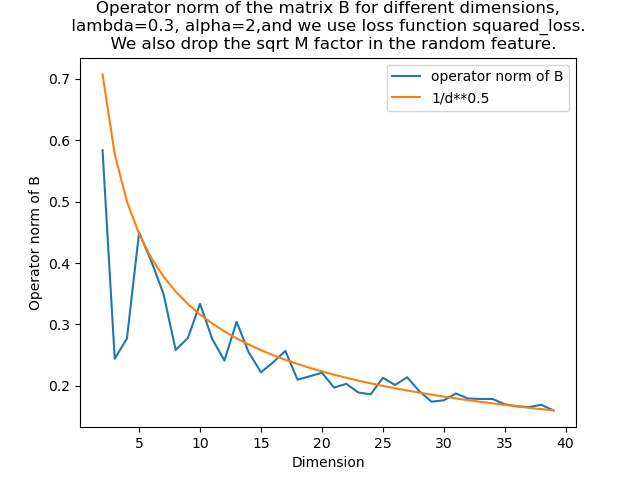
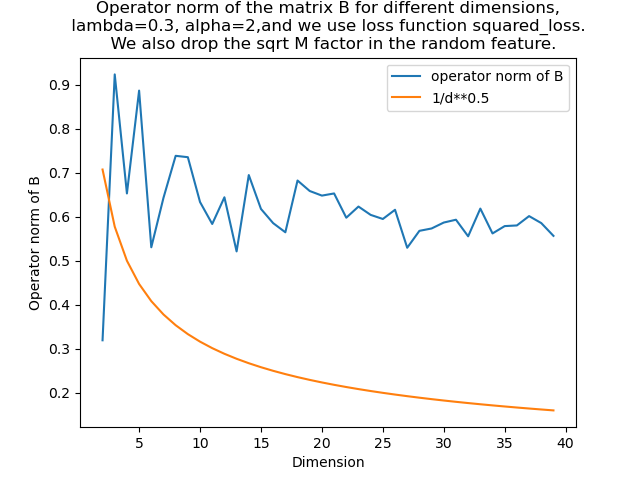
Signal_and_Scaling

diff --git a/RandomFeatureTest.py b/RandomFeatureTest.py
@@ -54,17 +54,20 @@ def smooth_l1_loss_grad(y_true, y_pred):
 if __name__ == "__main__":
     # Parameters
     lambda_reg = 0.3  # Regularization parameter
-    alpha = 2        # Ratio parameter
+    alpha = 1        # Ratio parameter
     k = 2              # Degree of Hermite polynomials
-    d = 2              # Dimension of input features
+    d = 20              # Dimension of input features
+    signal = True
+
 
     # Generate data
-    X, y = generate_data(d, k, alpha)
+    X, y = generate_data(d, k, alpha, signal=signal)
     # For logistic regression, y should be in {0, 1}
     y_classification = (y > 0).astype(np.float64)*2-1  # Convert to binary labels
 
     # Generate random weights W
     M =  int(alpha * (d ** k))             # Number of random features
+    scaling_factor = 1/np.sqrt(M)
     W = generate_random_weights(M, d)
 
     # 检查 W 的形状和内容
@@ -72,22 +75,31 @@ if __name__ == "__main__":
     print("W:", W)
     # # Choose loss function and its gradient
     # # # For regression
-    # loss_function = squared_loss
-    # loss_function_grad = squared_loss_grad
-    # y = y  # Use original y
+    loss_function = squared_loss
+    loss_function_grad = squared_loss_grad
+    y = y  # Use original y
     
     # For logistic regression (classification)
     # # Uncomment the following lines to use logistic loss
-    loss_function = logistic_loss
-    loss_function_grad = logistic_loss_grad
-    y = y_classification  # Use binary labels
+    # loss_function = logistic_loss
+    # loss_function_grad = logistic_loss_grad
+    # y = y_classification  # Use binary labels
 
     # Perform empirical risk minimization
-    ba_opt, W = empirical_risk_minimization(X, y, W, lambda_reg, loss_function, loss_function_grad)
+    ba_opt, W = empirical_risk_minimization(X, y, W, lambda_reg, loss_function, loss_function_grad, scaling_factor=scaling_factor)
     
     # Output the result
     # print("Optimized coefficients ba:")
     print("The infinity norm, 1 norm and 2 norm of ba_opt are", np.linalg.norm(ba_opt, np.inf), np.linalg.norm(ba_opt, 1), np.linalg.norm(ba_opt, 2))
+    B = np.sum([ba_opt[j] * np.outer(W[j], W[j]) for j in range(M)], axis=0)
+    # Draw heatmap of B
+    fig, ax = plt.subplots()
+    im = ax.imshow(B)
+    ax.set_xlabel("Dimension")
+    ax.set_ylabel("Dimension")
+    ax.set_title(f"Heatmap of matrix B. Paramters are lambda={lambda_reg}, alpha={alpha},\n n=M=alpha*d**{k}, and we use loss function {loss_function.__name__}. Signal is {signal}. Scaling factor is {scaling_factor}.")
+    fig.colorbar(im)
+    plt.show()
 
 
     repeat = 40
@@ -95,19 +107,28 @@ if __name__ == "__main__":
     ba_1_norm = dict()
     ba_2_norm = dict()
     B_op_norm = dict()
+    B_frobe_norm = dict()
+    B_cross_norm = dict()
     for d in range(2,repeat):
-        X, y = generate_data(d, k, alpha)
+        signal = True
+        X, y = generate_data(d, k, alpha, signal=signal)
         M =  int(alpha * (d ** k))             # Number of random features
+        scaling_factor = 1/np.sqrt(M)   
         W = generate_random_weights(M, d)
         y_classification = 2*(y > 0).astype(np.float64)-1
         y = y_classification
-        ba_hat, W = empirical_risk_minimization(X, y, W, lambda_reg, loss_function, loss_function_grad)
+        ba_hat, W = empirical_risk_minimization(X, y, W, lambda_reg, loss_function, loss_function_grad, scaling_factor=scaling_factor)
         ba_inf_norm[d] = np.linalg.norm(ba_hat, np.inf)
         ba_1_norm[d] = np.linalg.norm(ba_hat, 1)
         ba_2_norm[d] = np.linalg.norm(ba_hat, 2)
         # Calculate the matrix B. Its definition is that, for each i, B = \sum_{j=1}^M ba_hat[j] * row_j(W) * row_j(W)^T
         B = np.sum([ba_hat[j] * np.outer(W[j], W[j]) for j in range(M)], axis=0)
+        #l2 norm of the first row of B, but without the first element
+        B_cross_norm[d] = np.linalg.norm(B[0, 1:])
+        # Ignore the first row and the first column of B
+        B = B[1:, 1:]
         B_op_norm[d] = np.linalg.norm(B, 2)
+        B_frobe_norm[d] = np.linalg.norm(B)
         
         
     # For each d and j, plot the norms of ba_hat
@@ -121,11 +142,29 @@ if __name__ == "__main__":
     ax.legend()
     ax.set_xlabel("Dimension")
     ax.set_ylabel("Norm")
-    ax.set_title(f"Norms of the ERM solution hat a for different dimensions,\n lambda={lambda_reg}, alpha={alpha},and we use loss function {loss_function.__name__}. \n  We also drop the sqrt M factor in the random feature.")
+    ax.set_title(f"Norms of the ERM solution hat a for different dimensions,\n lambda={lambda_reg}, alpha={alpha},and we use loss function {loss_function.__name__}. \n  Signal is {signal}. Scaling factor is {scaling_factor}.")
 
     plt.show()
     # Save the plot
-    fig.savefig(f"figures/Nov2/randomFeature_lambda{lambda_reg}_alpha{alpha}_loss{loss_function.__name__}_repeat{repeat}.png")
+    fig.savefig(f"figures/Nov8/SignalrandomFeature_lambda{lambda_reg}_alpha{alpha}_loss{loss_function.__name__}_repeat{repeat}_signal{signal}_scaling{scaling_factor}.png")
+
+    # For each d and j, plot the norms of ba_hat
+    
+    fig, ax = plt.subplots()
+    ax.plot(list(ba_inf_norm.keys()), list(ba_inf_norm.values()), label='infinity norm')
+    # ax.plot(list(ba_1_norm.keys()), list(ba_1_norm.values()), label='1 norm')
+    ax.plot(list(ba_2_norm.keys()), list(ba_2_norm.values()), label='2 norm')
+    # Plot 1/d**0.5 for comparison
+    ax.plot(np.arange(2, repeat), 0.5/(np.arange(2, repeat)**0.5), label='1/d**0.5')
+    ax.legend()
+    ax.set_xlabel("Dimension")
+    ax.set_ylabel("Norm")
+    ax.set_title(f"Norms of the ERM solution hat a for different dimensions,\n lambda={lambda_reg}, alpha={alpha},and we use loss function {loss_function.__name__}. \n  Signal is {signal}. Scaling factor is {scaling_factor}.")
+
+    plt.show()
+    # Save the plot
+    fig.savefig(f"figures/Nov8/ZoomSignalrandomFeature_lambda{lambda_reg}_alpha{alpha}_loss{loss_function.__name__}_repeat{repeat}_signal{signal}_scaling{scaling_factor}.png")
+
     # For each d, plot the operator norm of B
     fig, ax = plt.subplots()
     ax.plot(list(B_op_norm.keys()), list(B_op_norm.values()), label='operator norm of B')
@@ -135,8 +174,33 @@ if __name__ == "__main__":
     ax.set_xlabel("Dimension")
     ax.set_ylabel("Operator norm of B")
 
-    ax.set_title(f"Operator norm of the matrix B for different dimensions,\n lambda={lambda_reg}, alpha={alpha},and we use loss function {loss_function.__name__}. \n  We also drop the sqrt M factor in the random feature.")
+    ax.set_title(f"Operator norm of the matrix B for different dimensions,\n lambda={lambda_reg}, alpha={alpha},and we use loss function {loss_function.__name__}. \n  Signal is {signal}. Scaling factor is {scaling_factor}.")
     plt.show()
 
     # Save the plot
-    fig.savefig(f"figures/Nov2/randomFeature_lambda{lambda_reg}_alpha{alpha}_loss{loss_function.__name__}_repeat{repeat}_B.png")
+    fig.savefig(f"figures/Nov8/randomFeature_lambda{lambda_reg}_alpha{alpha}_loss{loss_function.__name__}_repeat{repeat}_B_Signal{signal}_scaling{scaling_factor}.png")
+
+    # For each d, plot the Frobenius norm of B
+    fig, ax = plt.subplots()
+    ax.plot(list(B_frobe_norm.keys()), list(B_frobe_norm.values()), label='Frobenius norm of B')
+    # Plot 1/d for comparison
+    ax.plot(np.arange(2, repeat), 1/(np.arange(2, repeat))**0.5, label='1/d**0.5')
+    ax.legend()
+    ax.set_xlabel("Dimension")
+    ax.set_ylabel("Frobenius norm of B")
+    ax.set_title(f"Frobenius norm of the matrix B for different dimensions,\n lambda={lambda_reg}, alpha={alpha},and we use loss function {loss_function.__name__}. \n  Signal is {signal}. Scaling factor is {scaling_factor}.")
+    plt.show()
+
+    fig, ax = plt.subplots()
+    ax.plot(list(B_cross_norm.keys()), list(B_cross_norm.values()), label='Cross norm of B')
+    # Plot 1/d for comparison
+    ax.plot(np.arange(2, repeat), 0.5/(np.arange(2, repeat))**0.5, label='1/d**0.5')
+    ax.legend()
+    ax.set_xlabel("Dimension")
+    ax.set_ylabel("Cross norm of B")
+    ax.set_title(f"Cross norm of the matrix B for different dimensions,\n lambda={lambda_reg}, alpha={alpha},and we use loss function {loss_function.__name__}. \n  Signal is {signal}. Scaling factor is {scaling_factor}.")
+    plt.show()
+    # Save the plot
+    fig.savefig(f"figures/Nov8/randomFeature_lambda{lambda_reg}_alpha{alpha}_loss{loss_function.__name__}_repeat{repeat}_B_cross_Signal{signal}_scaling{scaling_factor}.png")
+    
+

diff --git a/GaussianUniverRandomFeature/ERM.py b/GaussianUniverRandomFeature/ERM.py
@@ -2,7 +2,7 @@ import numpy as np
 from scipy.optimize import minimize
 from .hermiteFeature import vectorized_hermite_features
 
-def generate_data(d, k, alpha):
+def generate_data(d, k, alpha, signal=True):
     """
     Generate dataset with n = alpha * d^k samples.
     Returns:
@@ -11,8 +11,12 @@ def generate_data(d, k, alpha):
     """
     n = int(alpha * (d ** k))
     X = np.random.randn(n, d)
-    y = np.random.randn(n)
+    # y = np.random.randn(n)
     # y = 1/2**0.5*(X[:, 0]**2 - 1)
+    if signal:
+        y = 1/2**0.5*(X[:, 0]**2 - 1)
+    else:
+        y = np.random.randn(n)
     return X, y
 
 def generate_random_weights(M, d):
@@ -90,32 +94,32 @@ def compute_K(Z, F):
     K = Z @ F.T  # Shape: (n_samples, M)
     return K
 
-def compute_empirical_risk(ba, K, y, lambda_reg, loss_function):
+def compute_empirical_risk(ba, K, y, lambda_reg, loss_function, scaling_factor=1):
     """
     Compute empirical risk for given coefficients ba.
     """
     n_samples = y.shape[0]
     M = K.shape[1]
-    # y_pred = (1 / np.sqrt(M)) * K @ ba  # Predictions
-    y_pred =  K @ ba  # Predictions
+    y_pred = scaling_factor * K @ ba  # Predictions
+    # y_pred =  K @ ba  # Predictions
     loss_values = loss_function(y, y_pred)
     empirical_risk = (1 / n_samples) * np.sum(loss_values) + lambda_reg * np.dot(ba, ba)
     return empirical_risk
 
-def compute_empirical_risk_grad(ba, K, y, lambda_reg, loss_function_grad):
+def compute_empirical_risk_grad(ba, K, y, lambda_reg, loss_function_grad, scaling_factor=1):
     """
     Compute gradient of empirical risk with respect to ba.
     """
     n_samples = y.shape[0]
     M = K.shape[1]
-    # y_pred = (1 / np.sqrt(M)) * K @ ba
-    y_pred =K @ ba
+    y_pred = scaling_factor * K @ ba
+    # y_pred =K @ ba
     loss_grad_values = loss_function_grad(y, y_pred)  # Shape: (n_samples,)
-    # grad = (1 / n_samples) * ((1 / np.sqrt(M)) * K.T @ loss_grad_values) + 2 * lambda_reg * ba
-    grad = (1 / n_samples) * ( K.T @ loss_grad_values) + 2 * lambda_reg * ba
+    grad = (1 / n_samples) * (scaling_factor * K.T @ loss_grad_values) + 2 * lambda_reg * ba
+    # grad = (1 / n_samples) * ( K.T @ loss_grad_values) + 2 * lambda_reg * ba
     return grad
 
-def empirical_risk_minimization(X, y, W, lambda_reg, loss_function, loss_function_grad):
+def empirical_risk_minimization(X, y, W, lambda_reg, loss_function, loss_function_grad, scaling_factor=1):
     """
     Perform empirical risk minimization to find optimal coefficients ba.
     """
@@ -141,10 +145,10 @@ def empirical_risk_minimization(X, y, W, lambda_reg, loss_function, loss_functio
     
     # Define objective function and gradient
     def objective(ba):
-        return compute_empirical_risk(ba, K, y, lambda_reg, loss_function)
+        return compute_empirical_risk(ba, K, y, lambda_reg, loss_function, scaling_factor)
     
     def gradient(ba):
-        return compute_empirical_risk_grad(ba, K, y, lambda_reg, loss_function_grad)
+        return compute_empirical_risk_grad(ba, K, y, lambda_reg, loss_function_grad, scaling_factor)
     
     # Optimize using scipy.optimize.minimize
     print("Starting optimization...")
@@ -222,7 +226,7 @@ if __name__ == "__main__":
     M =  int(alpha * (d ** k))             # Number of random features
 
     # Generate data
-    X, y = generate_data(d, k, alpha)
+    X, y = generate_data(d, k, alpha, signal=True)
     # For logistic regression, y should be in {0, 1}
     y_classification = (y > 0).astype(np.float64)*2-1  # Convert to binary labels
 
